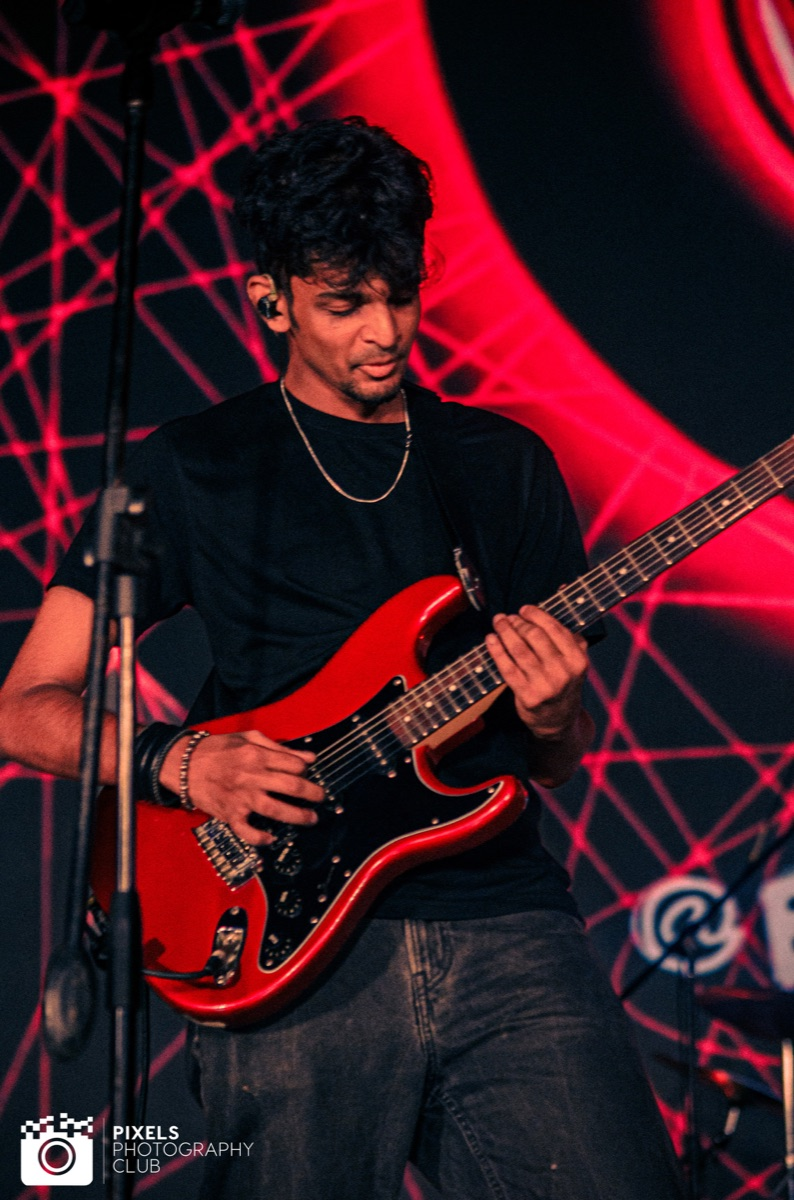
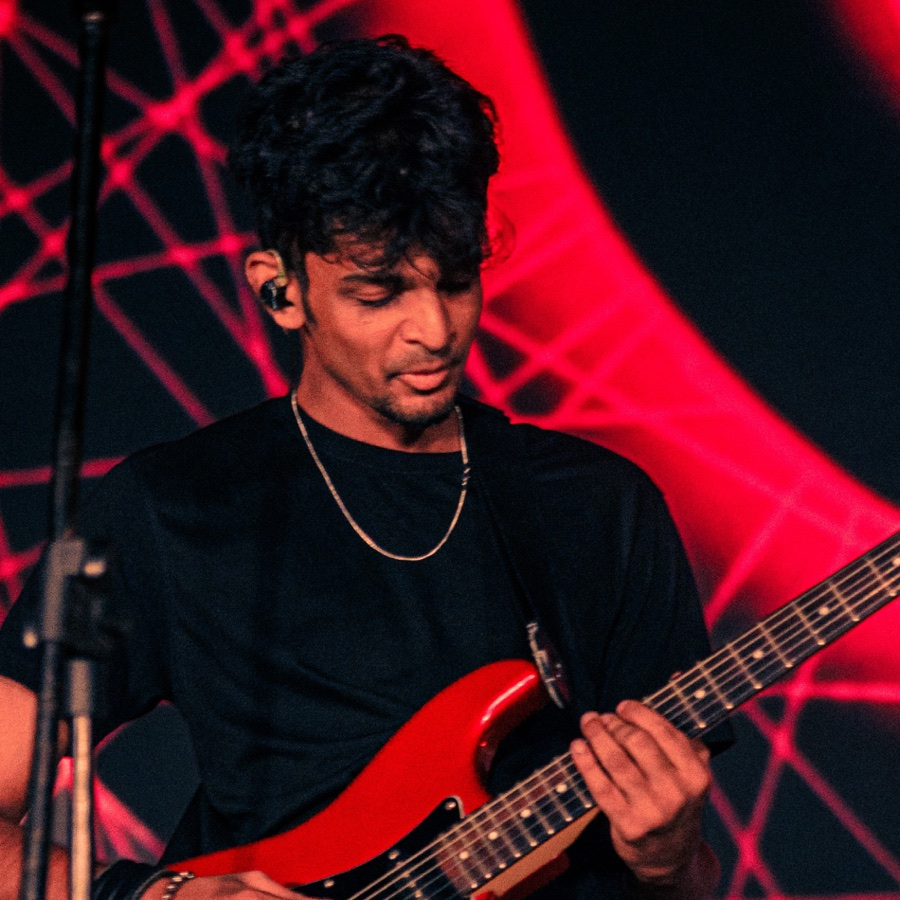
Fix portrait layout

diff --git a/styles.css b/styles.css
@@ -39,25 +39,19 @@ body {
 }
 
 .masthead {
-  display: grid;
-  grid-template-columns: minmax(9rem, 0.65fr) minmax(0, 1.7fr);
-  gap: clamp(1.75rem, 5vw, 3.5rem);
-  align-items: center;
   margin-bottom: clamp(3rem, 8vw, 5.5rem);
+  text-align: center;
 }
 
 .portrait {
   display: block;
-  width: 100%;
-  aspect-ratio: 4 / 5;
+  width: clamp(9rem, 28vw, 13rem);
+  height: auto;
+  margin: 0 auto 2rem;
+  aspect-ratio: 1;
   border: 1px solid var(--rule);
   object-fit: cover;
-  object-position: 50% 36%;
   filter: saturate(0.82) contrast(1.04);
-}
-
-.masthead-copy {
-  text-align: center;
 }
 
 h1,
@@ -184,16 +178,12 @@ li::marker,
   }
 
   .masthead {
-    grid-template-columns: 1fr;
-    gap: 1.75rem;
     margin-bottom: 3.5rem;
   }
 
   .portrait {
-    width: min(72vw, 18rem);
-    margin: 0 auto;
-    aspect-ratio: 4 / 3;
-    object-position: 50% 31%;
+    width: min(68vw, 15rem);
+    margin-bottom: 1.75rem;
   }
 
   .links {

diff --git a/index.html b/index.html
@@ -25,8 +25,8 @@
           class="portrait"
           src="/assets/adithya-performing.jpg"
           alt="Adithya Rohith"
-          width="794"
-          height="1200"
+          width="900"
+          height="900"
           fetchpriority="high"
         >
         <div class="masthead-copy">